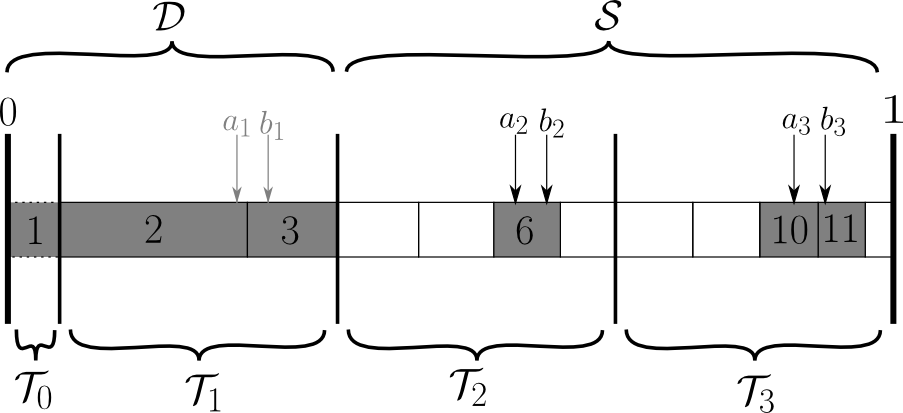
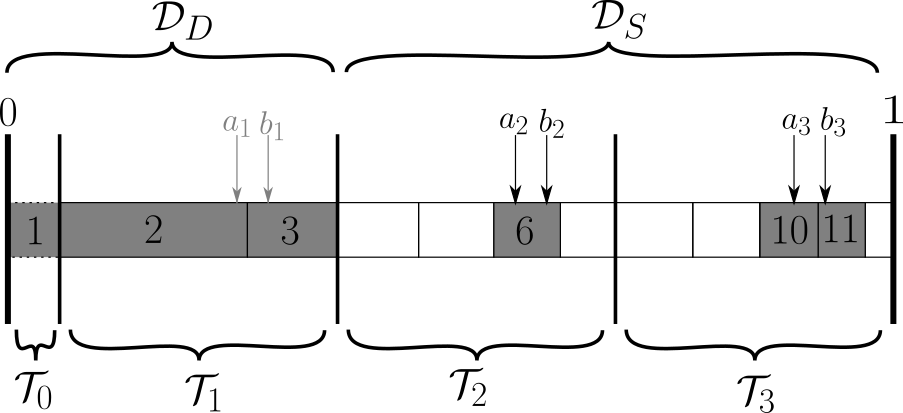
divers

diff --git a/pt2.tex b/pt2.tex
@@ -46,8 +46,10 @@ A practical way to circumvent this problem was already proposed 20 years ago, by
 
 We eventually solved the previously discussed problem by turning the bias into an error bar. The basic idea is that, instead of trying to get the largest possible chunk of contribution, we can randomly pick $e_\alpha$ contributions and make a Monte-Carlo estimate for the sum over all $\ket \alpha$. In this case, to avoid any bias we must set
 \begin{equation}
-\Ngen = \Ndet \; ; \; \Nsel = \Ndet.
+\Ngen = \Nsel = \Ndet^\star
 \end{equation}
+
+with $\Ndet^\star$ the number of internal determinants with non-zero coefficient.
 Not only the estimate will be unbiased and much closer to the actual $\EPT$, but we will have an estimate for the error. Because $\EPT$ is itself used as an approximation
 \begin{equation}
 \Evar + \EPT \simeq \EFCI,
@@ -208,12 +210,12 @@ In our case, this optimization also leads to a drastic improvement in the comput
 
 
 \section{Deterministic and stochastic ranges}
-Because $e_I$ decreases rapidly, most of the contribution is contained in the first few $e_I$. We can compute the exact energy contribution for the first $e_I$, and only make a stochastic estimation for the sum over the smaller ones. This effectively splits the space of generators in two ranges, a deterministic one $\mathcal{D}$, then a stochastic one $\mathcal{S}$ (hence the hybrid characteristic of this method). Being ranges, they are always made of contiguous generators. The estimated energy can be written as
+Because $e_I$ decreases rapidly, most of the contribution is contained in the first few $e_I$. We can compute the exact energy contribution for the first $e_I$, and only make a stochastic estimation for the sum over the smaller ones. This effectively splits the space of generators in two ranges, a deterministic one $\mathcal{D}_D$, then a stochastic one $\mathcal{D}_S$ (hence the hybrid characteristic of this method). Being ranges, they are always made of contiguous generators. The estimated energy can be written as
 \begin{equation}
 \EPT = E_D + E_S
 \end{equation}
-with $E_D$ the exact energy for $\mathcal{D}$, and $E_S$ the estimated energy for $\mathcal{S}$. The error bar only applies to $E_S$, which is typically much smaller than $E_D$.
-The number of generators in $\mathcal{D}$ increases during the computation. Initially, $\mathcal{D}=\mathcal{T}_0$ the initial deterministic range, for which the total weight is $u_0$.
+with $E_D$ the exact energy for $\mathcal{D}_D$, and $E_S$ the estimated energy for $\mathcal{D}_S$. The error bar only applies to $E_S$, which is typically much smaller than $E_D$.
+The number of generators in $\mathcal{D}_D$ increases during the computation. Initially, $\mathcal{D}_D=\mathcal{T}_0$ the initial deterministic range, for which the total weight is $u_0$.
 \begin{equation}
 \sum_{I \in \mathcal{T}_0} w_I=u_0
 \end{equation}
@@ -270,7 +272,7 @@ As seen in section~\ref{sec:partition}, because $\frac{e_I}{w_I}$ overall decrea
 \end{figure}
 
 The partition of the generator space is as shown in figure~\ref{fig:teeth}.
-Intuitively, the sum of ``one large, one medium and one small'' has a lower variance than the sum of ``three at random''. Instead of drawing individual indices, we are going to draw ``combs'' of indices, which are correlated sets of 1 index from each tooth. The associated sample value is the sum of $\frac{e_I}{w_I}$ over those indices that are in $\mathcal{S}$.  The expression for this sample value is given below in Eq.~\eqref{eq:combvalue}.
+Intuitively, the sum of ``one large, one medium and one small'' has a lower variance than the sum of ``three at random''. Instead of drawing individual indices, we are going to draw ``combs'' of indices, which are correlated sets of 1 index from each tooth. The associated sample value is the sum of $\frac{e_I}{w_I}$ over those indices that are in $\mathcal{D}_S$.  The expression for this sample value is given below in Eq.~\eqref{eq:combvalue}.
 
 \subsection{Fully-computed teeth are moved to the deterministic range}
 
@@ -302,7 +304,7 @@ An illustrative example is given as figure \ref{fig:toothindet}.
 	\begin{center}
 		\includegraphics[width=0.75\columnwidth]{figures/pt2/toothindet}
 	\end{center}
-		\caption{Illustrative example of drawing $n=2$ combs $a$ and $b$. Contributions that have been computed are greyed. $\mathcal{T}_1$ has been fully computed and is thus moved to $\mathcal{D}$. The first non-deterministic/not fully-computed tooth is $\mathcal{T}_{t=2}$.
+		\caption{Illustrative example of drawing $n=2$ combs $a$ and $b$. Contributions that have been computed are greyed. $\mathcal{T}_1$ has been fully computed and is thus moved to $\mathcal{D}_D$. The first non-deterministic/not fully-computed tooth is $\mathcal{T}_{t=2}$.
 		$ E_D = e_1 + e_2 + e_3 $, 
 		$B_t(a) = W_T \Big ( \frac{e_6}{w_6} + \frac{e_{10}}{w_{10}} \Big ) \;;B_t(b) = W_T \Big ( \frac{e_6}{w_6} + \frac{e_{11}}{w_{11}} \Big )$, 
 		$E_S = \frac{B_t(a)+B_t(b)}{n}$}
@@ -333,7 +335,7 @@ S^{(2)}_{t} = \sum_{u \in \{\mathcal{U}\}} B_{t}(u)^2
 
 The initial deterministic range $\mathcal{T}_0$ is a technical constraint.
 Because generators are sorted with decreasing $p(e_I)$, it is guaranteed that $|\mathcal{T}_{t>t'}| \geq |\mathcal{T}_{t' \neq 0}|-1$ with $|\mathcal{T}_t|$ the cardinality of $\mathcal{T}_t$.
-For each comb, we draw a sample in each tooth, and when a tooth is entirely computed, it is moved to $\mathcal{D}$. Thus, it is immediately obvious that a tooth containing a single generator makes no sense, as it will be instantly moved to $\mathcal{D}$ ; it can as well be considered part of it. Because it is common practice to require at least 30 samples for the distribution of the average to become close enough to a Gaussian distribution,\cite{Hogg2014Jan} we can go further and consider that a tooth with fewer than 5-10 generators will be moved to $\mathcal{D}$ too fast to be of real interest. Because the first $c_I^2$ are usually disproportionately large, it is not possible to fit that many in a tooth. Therefore they are immediately considered part of $\mathcal{D}$.
+For each comb, we draw a sample in each tooth, and when a tooth is entirely computed, it is moved to $\mathcal{D}_D$. Thus, it is immediately obvious that a tooth containing a single generator makes no sense, as it will be instantly moved to $\mathcal{D}_D$ ; it can as well be considered part of it. Because it is common practice to require at least 30 samples for the distribution of the average to become close enough to a Gaussian distribution,\cite{Hogg2014Jan} we can go further and consider that a tooth with fewer than 5-10 generators will be moved to $\mathcal{D}_D$ too fast to be of real interest. Because the first $c_I^2$ are usually disproportionately large, it is not possible to fit that many in a tooth. Therefore they are immediately considered part of $\mathcal{D}_D$.
 
 \subsection{Desired \textit{vs} effective distribution function}
 \label{sec:pt2_distribution}
@@ -379,7 +381,7 @@ This is an empirical mechanism to balance the stochastic and deterministic aspec
 \begin{equation}
 \sum_{i=0}^{n-1} \frac{n}{n-i}
 \end{equation}
-combs are drawn. Thus, teeth containing thousands of determinants are very hard to move to $\mathcal{D}$. A tooth containing $10~000$ generators with a single non-computed contribution only needs that particular generator to be drawn in order to be moved to $\mathcal{D}$, but it will take on average $10~000$ more combs to be drawn until this happens by chance. With the non-uniform sampling, the situation is even worse.
+combs are drawn. Thus, teeth containing thousands of determinants are very hard to move to $\mathcal{D}_D$. A tooth containing $10~000$ generators with a single non-computed contribution only needs that particular generator to be drawn in order to be moved to $\mathcal{D}_D$, but it will take on average $10~000$ more combs to be drawn until this happens by chance. With the non-uniform sampling, the situation is even worse.
 A convenient way to avoid this frustrating situation is, every time a comb is drawn, to additionally compute the first non-computed contribution of the whole space. This ensures smooth filling of teeth, and that that the full deterministic computation will be achieved before $\Ngen$ combs are drawn.
 
 
@@ -445,7 +447,7 @@ A desired minimal number of generators in the first tooth. All subsequent teeth 
 \item $w_I$:
 The effective distribution function
 \item $n_0(t)$:
-An array of size $\Nteeth+1$ so that $n_0(t)$ is the number of samples in $\mathcal{D}$ with $\mathcal{T}_t$ the first non-deterministic tooth. For algorithmic convenience, $n_0(\Nteeth+1)=\Ngen$.
+An array of size $\Nteeth+1$ so that $n_0(t)$ is the number of samples in $\mathcal{D}_D$ with $\mathcal{T}_t$ the first non-deterministic tooth. For algorithmic convenience, $n_0(\Nteeth+1)=\Ngen$.
 \end{itemize}
 \end{description}
 

diff --git a/cipsi.tex b/cipsi.tex
@@ -306,7 +306,7 @@ Pick $Q$ any ``non-frozen'' $\uparrow$ spinorbital occupied in $\ket G$. Again w
         \begin{center}
                 \includegraphics[width=0.70\columnwidth]{figures/cipsi/systematic_determination}
         \end{center}
-        \caption{Illustrative example of systematic determination of the connection between a selector $\ket S$ and determinants of the $\ket {G_{pq}}$ batch when $p$ and $q$ have the same spin. $c_S$ is the coefficient of $\ket S$ in $\ket \Psi$. \alert{IL FAUT METTRE UN CHAPEAU SUR H DANS LA FIGURE!}}
+        \caption{Illustrative example of systematic determination of the connection between a selector $\ket S$ and determinants of the $\ket {G_{pq}}$ batch when $p$ and $q$ have the same spin. $c_S$ is the coefficient of $\ket S$ in $\ket \Psi$.}
         \label{fig:systematic_determination}
         
 \end{figure}
@@ -316,7 +316,7 @@ Pick $Q$ any ``non-frozen'' $\uparrow$ spinorbital occupied in $\ket G$. Again w
         \begin{center}
                 \includegraphics[width=0.90\columnwidth]{figures/cipsi/systematic_determination2}       
         \end{center}
-        \caption{Illustrative example of systematic determination of the connection between a selector $\ket S$ and determinants of the $\ket {G_{pq}}$ batch when $p$ and $q$ are of different spins. $c_S$ is the coefficient of $\ket S$ in $\ket \Psi$.\alert{IL FAUT METTRE UN CHAPEAU SUR H DANS LA FIGURE!}}
+        \caption{Illustrative example of systematic determination of the connection between a selector $\ket S$ and determinants of the $\ket {G_{pq}}$ batch when $p$ and $q$ are of different spins. $c_S$ is the coefficient of $\ket S$ in $\ket \Psi$.}
         \label{fig:systematic_determination2}
 \end{figure}
 
@@ -353,7 +353,7 @@ Cases of the form $ij$ cause the whole $P(G_{pq})$ matrix to be tagged or increm
 \begin{algorithm}
         \caption{Unfiltered CIPSI selection}
         \label{alg:selection}
-        \tcc{For simplification purpose, a determinant $\ket S$ is here represented by a single bitstring $S_\sigma$ of size $2\Norb$ where each bit is associated with a spinorbital}
+        \tcc{For simplification purpose, a determinant $\ket S$ is here represented by a single bitstring $S$ of size $2\Norb$ where each bit is associated with a spinorbital}
         \KwData{ $\ket \Psi$, i.e. $\{D_I\}$ the set of internal determinants and their coefficients $c_I$}
         \KwData{ $\Ngen$, $\Nsel$, $\Ndet$}
         %\KwResult{ $\Hij{\alpha}{\Psi} \neq 0$ has been computed exactly once for any $\alpha \notin \Psi$ }
@@ -371,9 +371,9 @@ Cases of the form $ij$ cause the whole $P(G_{pq})$ matrix to be tagged or increm
                 
                 \For{$t \gets 1,N_{det}$}{
                         $\ket S \gets \ket {D_t}$ \; 
-                        $C_\sigma \gets S_\sigma \wedge \neg [G_{pq}]_\sigma$ \; %c \gets \IAND{S}{\NOT{G_{pq}}}$ \; 
-                        \If{$||C_\sigma|| = 2$}{
-                                $e \gets \texttt{LIST\_FROM\_BITSTRING}(C_\sigma)$\; 
+                        $C \gets S \wedge \neg G_{pq}$ \; %c \gets \IAND{S}{\NOT{G_{pq}}}$ \; 
+                        \If{$||C|| = 2$}{
+                                $e \gets \texttt{LIST\_FROM\_BITSTRING}(C)$\; 
                                 $B_{e[0]\, e[1]} \gets \TRUE$\;                     
                         }                       
                         \tcc{see table \ref{tab:systematic_determination} for $(r,s)$ pairs}
@@ -510,11 +510,13 @@ Left branch : Determinants that aren't selectors, but are equal to some $\ket {G
 
 
 This step sets the complexity of the algorithm with respect to $\Ndet$. Naively, $f_G^S$ must be computed for all pairs of internal determinants, setting the complexity to $\mathcal{O}(\Ndet^2)$.
+\begin{comment}
 \begin{algorithm}
 \caption{Filtering internal determinants for generator $\ket G$}
 \label{alg:generators_filtering}
 \KwData{$U_\uparrow, U_\downarrow$~: the set of unique $\uparrow$ and $\downarrow$ strings used
-to build the $\Ndet$ determinants}
+to build the $\Ndet$ determinants. $\ket G$ a generator determinant.}
+\KwResult{Finds all $\ket S$ internal determinants so that $f_G^S \leq 4$}
 \For{$S_\uparrow \in \{U_\uparrow \}$}{
 $a \gets \texttt{EXC\_DEGREE}(S_\uparrow, G_\uparrow)$ \;
 \If{$a \leq 2$}{
@@ -528,6 +530,40 @@ $b \gets \text{EXC\_DEGREE}(S_\downarrow, G_\downarrow)$ \;
 }
 }
 \end{algorithm}
+\end{comment}
+
+\begin{algorithm}
+\caption{Filter internal determinants $\ket S$ so that $f_G^S \leq 4$ }
+\label{alg:generators_filtering}
+\KwData{$\ket G$: a generator determinant.}
+\KwData{$\Nalphadet$: the number of unique $\uparrow$ spin parts present in $\ket \Psi$.}
+\KwData{$D^\uparrow$: the array of determinants present in $\ket \Psi$, sorted by $\uparrow$-major order (all determinants sharing the same $\uparrow$ part are next to each other).}
+\KwData{$A^\uparrow$: the arrays so that $A^\uparrow[n]$ is the index of the first occurence of the $n^{th}$ unique $\uparrow$ spin part in $D^\uparrow$. For algorithmic convenience we set $A^\uparrow[\Nalphadet +1] = \Ndet+1$.}
+\KwData{$\Nbetadet$, $D^\downarrow$, $A^\downarrow$: the $\downarrow$ counterparts.}
+
+\For{$a \gets 1, \Nalphadet$}{
+$e \gets \text{EXC\_DEGREE}(D^\uparrow[A^\uparrow(a)]_\uparrow, G_\uparrow)$ \;
+\If{$e \leq 2$}{
+	\For{$b \gets A^\uparrow(a), A^\uparrow(a+1)-1$}{
+		\If{$e + \text{EXC\_DEGREE}(D^\uparrow[b]_\downarrow, G_\downarrow) \leq 4$}{
+			retain $D^\uparrow[b]$ \;		
+		}
+	}
+}
+}
+
+\For{$a \gets 1, \Nbetadet$}{
+$e \gets \text{EXC\_DEGREE}(D^\downarrow[A^\downarrow(a)]_\downarrow, G_\downarrow)$ \;
+\If{$e \leq 1$}{
+	\For{$b \gets A^\downarrow(a), A^\downarrow(a+1)-1$}{
+		\If{$e + \text{EXC\_DEGREE}(D^\downarrow[b]_\uparrow, G_\uparrow) \leq 4$}{
+			retain $D^\downarrow[b]$ \;		
+		}
+	}
+}
+}
+\end{algorithm}
+
 Our current implementation quickly discards $f_G^S > 4$ by using a method similar to what we used in the Davidson diagonalization, adapted to seek excitation degrees $\leq 4$ rather than $\leq 2$. The key difference is that, for parallelism reasons, the research has to be done individually for each generator~; that is, we are not computing all $f_G^S$ at the same time, but all $f_G^S$ for a given $\ket G$ separately. The procedure is shown as algorithm \ref{alg:generators_filtering}. The complexity is reduced from $\order{\Ndet^2}$ to $\order{\Ndet^{3/2}}$.
 
 

diff --git a/exp_dressing.tex b/exp_dressing.tex
@@ -173,20 +173,20 @@ Among these intermediate sets only $\tilde{\mathcal{C}}_{r0}$ and $\tilde{\mathc
 		\KwData{$\tilde{\mathcal{C}}_{rs}$ the intermediate sets, $B_{rs}$ the tag matrix}
 		%\KwResult{$Z^\star(\Gpqrs, \mathcal{C}_{rs})$ is called for all $\Gpqrs$ of $G_{pq}$ batch that are unique $\kalpha$}
 		\KwResult{$\mathcal{C}_{rs}$ is computed for all $\Gpqrs$ of $G_{pq}$ batch that are unique $\kalpha$} 
-		\tcc{$\interC{rs}$ and $\finC{rs}$ are considered arrays, the syntax $\finC{rs}[i\ldots j]$ is used to denote a segment of array}
+		\tcc{$\interC{rs}$ and $\finC{rs}$ are considered arrays, the syntax $\finC{rs}[i\ldots j]$ is used to denote a segment of array, $|\finC{rs}|$ is the cardinality of $\finC{rs}$}
 		$T$ an array of size $\Nsel$ initialized to $\TRUE$ \;
 		$L$ an array of determinants size $\Nsel$ \;
         $i_1 = |\interC{00}|$ \;   
         $L[1 \ldots i_1] \gets \interC{00}[1 \ldots {i_1}]$ \;
         
-		\tcc {$B_{r0} = \FALSE$ if column $r$ is entirely tagged}		
-		\ForAll{$r ; B_{r0}$}{
+		\tcc {$B_{r0} = \TRUE$ if column $r$ is entirely tagged}		
+		\ForAll{$r ; \neg B_{r0}$}{
 		  $i_2 = i_1 + |\interC{r0}|$ \;
 		  $L[i_1+1 \ldots i_2] \gets \interC{r0}$ \;
 		  \For{$i\gets 1,|\interC{r0}|$}{
 		    $T[\interC{r0}[i]] \gets \FALSE$
 		  }
-		  \ForAll{$s;B_{rs}=\TRUE$}{
+		  \ForAll{$s;\neg (B_{rs} \vee B_{0s})$}{
 		    $i_3 = i_2$ \;
 		    \For{$i\gets 1,|\interC{s0}|$}{
 		      \If{$T[\interC{s0}[i]]$}{
@@ -224,7 +224,7 @@ if $R_r$ so that $\text{EXC\_DEGREE} (R_r, \alpha) \leq 2$ was found, discard $\
 
 
 \ForAll{$D_j$}{
-\tcc{Note that $\Phi(D_j \rightarrow \alpha)$ may be pre-computed here}
+\tcc{Note that $\phase{\ket {D_j}}{\kalpha}$ may be pre-computed here}
 $\delta \gets \alpha - D_j$ \;
 $i \gets 1$ \;
 $r \gets 1$ \;
@@ -239,7 +239,7 @@ $r \gets 1$ \;
 	{
 		\If{$R_r \oplus D_i \oplus D_j \oplus \alpha = 0$}{
 			\tcc{diamond found}
-			$\varphi \gets \Phi(D_j \rightarrow \alpha) \times \Phi(R_r \rightarrow D_i)$ \;
+			$\varphi \gets \phase{\ket {D_j}}{\kalpha} \times \phase{\ket {R_r}}{\ket {D_i}}$ \;
 			$c_\alpha \gets c_\alpha + \varphi \times c_{R_r} \times (t_{R_r \rightarrow D_i}) \times (t_{R_r \rightarrow D_j})$ \;
 		}
 		$r \gets r + 1$ \;
@@ -471,13 +471,13 @@ preserving the phase factor of $\ket i$. Therefore
 
 
 \begin{equation}
-t_{I \rightarrow i} = \frac{t_{pq \rightarrow rs}}{\Phi(I \rightarrow i)}
+t_{I \rightarrow i} = \frac{t_{pq \rightarrow rs}}{\phase{\ket I}{\ket i}}
 \end{equation}
 
 In order to compute the contribution of a diamond to $c_\alpha$, we are required to compute the phase factor
 
 \begin{equation}
-\Phi(R _r \rightarrow \alpha) = \Phi(R _r \rightarrow D_i) \Phi(D_i \rightarrow \alpha)
+\phase{\ket {R_r}}{\kalpha} = \phase{\ket {R_r}}{\ket {D_i}} \phase{\ket {D_i}}{\kalpha}
 \end{equation}
 
 
@@ -485,19 +485,19 @@ In order to compute the contribution of a diamond to $c_\alpha$, we are required
 which is noted $(-1)^{n(I \rightarrow \alpha)}$ in equation 26 of the presented article, with $I$ the reference determinant. The article uses reference-independent notation for amplitudes. If we re-write the formula with reference-dependent notations, the contribution for each diamond becomes
 
 \begin{equation}
-c_r \Phi(R _r \rightarrow \alpha) \frac{t_{R _r \rightarrow D_i}}{\Phi(R _r \rightarrow D_i)} \frac{t_{D_i \rightarrow \alpha}}{\Phi(D_i \rightarrow \alpha)} =c_r t_{R_r \rightarrow D_i} t_{D_i \rightarrow \alpha}
+c_r \phase{\ket {R_r}}{\kalpha} \frac{t_{R_r \rightarrow D_i}}{\phase{\ket {R_r}}{\ket {D_i}}} \frac{t_{D_i \rightarrow \alpha}}{\phase{\ket {D_i}}{\kalpha}} =c_r t_{R_r \rightarrow D_i} t_{D_i \rightarrow \alpha}
 \end{equation}
 with $c_r$ the coefficient of $\ket {R_r}$.
-Amplitude for $t_{D_i \rightarrow \alpha}$ of course cannot be stored and would be too expensice to compute on the fly. Because $\hat T_{D_i \rightarrow \alpha}$ involves the same orbitals as $\hat T_{R _r \rightarrow D_j}$, their associated amplitudes are the same up to the phase factor
+Amplitude for $t_{D_i \rightarrow \alpha}$ of course cannot be stored and would be too expensice to compute on the fly. Because $\hat T_{D_i \rightarrow \alpha}$ involves the same orbitals as $\hat T_{R_r \rightarrow D_j}$, their associated amplitudes are the same up to the phase factor
 
 \begin{equation}
-t_{D_i \rightarrow \alpha} = t_{R _r \rightarrow D_j} \Phi(R _r \rightarrow D_j)\Phi(D_i \rightarrow \alpha)
+t_{D_i \rightarrow \alpha} = t_{R_r \rightarrow D_j} \phase{\ket {R_r}}{\ket {D_j}}\phase{\ket {D_i}}{\kalpha}
 \end{equation}
 
 So we can finally rewrite the contribution to $c_\alpha$ for each diamond
 
 \begin{equation}
-c_r t_{R _r \rightarrow D_i} t_{R _r \rightarrow D_j} \Phi(R _r \rightarrow D_j)\Phi(D_i \rightarrow \alpha)
+c_r t_{R_r \rightarrow D_i} t_{R_r \rightarrow D_j} \phase{\ket {R_r}}{\ket {D_j}}\phase{\ket {D_i}}{\kalpha}
 \end{equation}
 
 \end{document}

diff --git a/matrix_dressing.tex b/matrix_dressing.tex
@@ -356,7 +356,9 @@ Because of the ``tooth filling'', sometimes samples computed inside a checkpoint
 \begin{algorithm}
 	\caption{Computation of $\tilde \mu$, $\dot t$ and $\dot n_0$.}
 	\label{COMPUTE_MU}
-		\KwData{$Q$, $R^{-1}$, $n_0$, $\Nteeth$}
+	\KwData{$Q$, $R^{-1}$, $n_0$, $\Nteeth$}
+	\SetKw{KwBy}{by}
+
 		\KwResult{ $\tilde \mu$, $\dot t$ and $\dot n_0$}
 		$\tilde \mu^*_* \gets 0$ \;
 		$F \gets n_0(1)+1$ \;		
@@ -379,13 +381,13 @@ Because of the ``tooth filling'', sometimes samples computed inside a checkpoint
 				}
 			}
 				
-			\For{$I\gets \dot n_0(m)+1, \Ngen$}{
-				$\tilde \gamma^m_I \gets \frac{W_T \times M_{m,I}}{w[i]}$ \;
+			\For{$I=\dot n_0(m)+1, \Ngen$}{
+				$ \gamma^m_I \gets \frac{W_T \times M_{m,I}}{w[I]}$ \;
 			}
 		}
-		
-		\For{$m\gets \Ncp,2,-1$}{
-			$\tilde \mu^m_* \gets \tilde \gamma^m_* - \tilde \gamma^{m-1}_*$ \;
+		$\tilde \mu^1_* \gets \gamma^1_*$ \;
+		\For{$m=2,N_{cp}$}{
+			$\tilde \mu^m_* \gets \gamma^m_* - \gamma^{m-1}_*$ \;
 		}
 \end{algorithm}
 
@@ -461,20 +463,24 @@ Because of the ``tooth filling'', sometimes samples computed inside a checkpoint
 	\label{alg:build_checkpoints}
 	\tcc{Compute partial value of $\deltabold^m$ with partial values of $\deltabold^{D,t}$ and $\deltabold^{S,m}$}
 	\tcc{Sending information for checkpoint $m$}
+	\SetKw{KwBy}{by}
+
 	
 	$\dot f \gets \sum_{I \in \mathcal{P}_{p\leq m}} f[I]$ \;
 	\If{$\dot f = 0$}{
 		return \;
 	}
 	
+
 	$\deltabold^m \gets 0$ \;
 	\tcc{Reverse loop for numerical precision \alert{POURQUOI?}}
-	\For{$p\gets m \text{ down to }1$}{
+	\For{$p=m,1$ \KwBy $-1$}{
 		$\deltabold^m \gets \deltabold^m + \deltabold^{S,p}$
 	}
 	$\deltabold^m \gets \frac{\deltabold^m}{M_m}$ \; 
-	\For{$t\gets \dot t_m-1,0,-1$}{
+	\For{$t=\dot t_m-1,0$ \KwBy $-1$}{
 		$\deltabold^m \gets \deltabold^m + \deltabold^{D,t}$ \;
+
 	}
 	%$\mathcal{I}$ the set of $I \in \mathcal{P}_m$ with $f[I] > 0$ \;
 	send ($m$, $\deltabold^m$, $e_{I \in \mathcal{P}_m}$, $\dot f$) \;

diff --git a/det_driven.tex b/det_driven.tex
@@ -358,7 +358,7 @@ Because computing excitations is a hotspot of the program, and because we are ty
 	\SetKwProg{Fn}{Function}{:}{}
 	
 	\Fn(){\FMain{$I, J$}}{
-		\KwData {$I, J$: bitstring representations of determinants $\ket{I}$ and $\ket{J}$}
+		\KwData {$I, J$: bitstring representations of determinants $\ket{I}$ and $\ket{J}$. }
 		\KwResult{ Returns the excitation degree between $\ket{I}$ and $\ket{J}$, namely $\frac{1}{2}\popcnt{\ieor{I}{J}}$ }
 
 		$X \gets 0$   \;
@@ -725,7 +725,7 @@ This translates to $\tilde N^{I}_{j' i'}$ and $\tilde N^{I}_{i'j'}$ being of dif
 	\begin{center}
 		\includegraphics[width=0.5\columnwidth]{figures/determinant_driven/phase}
 		\caption[phase mask illustration]{
-		$i$ and $j$ are the lower and higher spinorbitals involved in the excitation. $E_i^I$ is the number of electrons in spinorbitals below $i$ and of same spin, $P_i^I$ is its parity. $E_j^I - E_{i+1}^I$ gives the number of electrons that are ``crossed'' during the excitation, $\phi = P^I_{i+1} \oplus P^I_j$ the parity of that number, $(-1)^\phi$ is the phase factor.
+		$i$ and $j$ are the lowest and highest spinorbitals involved in the excitation. $E_i^I$ is the number of electrons in spinorbitals below $i$ and of same spin, $P_i^I$ is its parity. $E_j^I - E_{i+1}^I$ gives the number of electrons that are ``crossed'' during the excitation, $\phi = P^I_{i+1} \oplus P^I_j$ the parity of that number, $(-1)^\phi$ is the phase factor.
 		}
 		\label{generators_selectors}
 	\end{center}

diff --git a/davidson.tex b/davidson.tex
@@ -122,7 +122,7 @@ algorithms~\ref{alg:davidson_aa} and~\ref{alg:davidson_ab}.
 
 
 \begin{algorithm}
-\caption{Find internal determinants connected by $\uparrow\downarrow$ double excitations}
+\caption{Find internal determinants connected by $\uparrow\downarrow$ double excitations (sequential, using the symmetry of $\mH$).}
 \label{alg:davidson_ab}
 \KwData{see algorithm \ref{alg:davidson_aa}}
 
